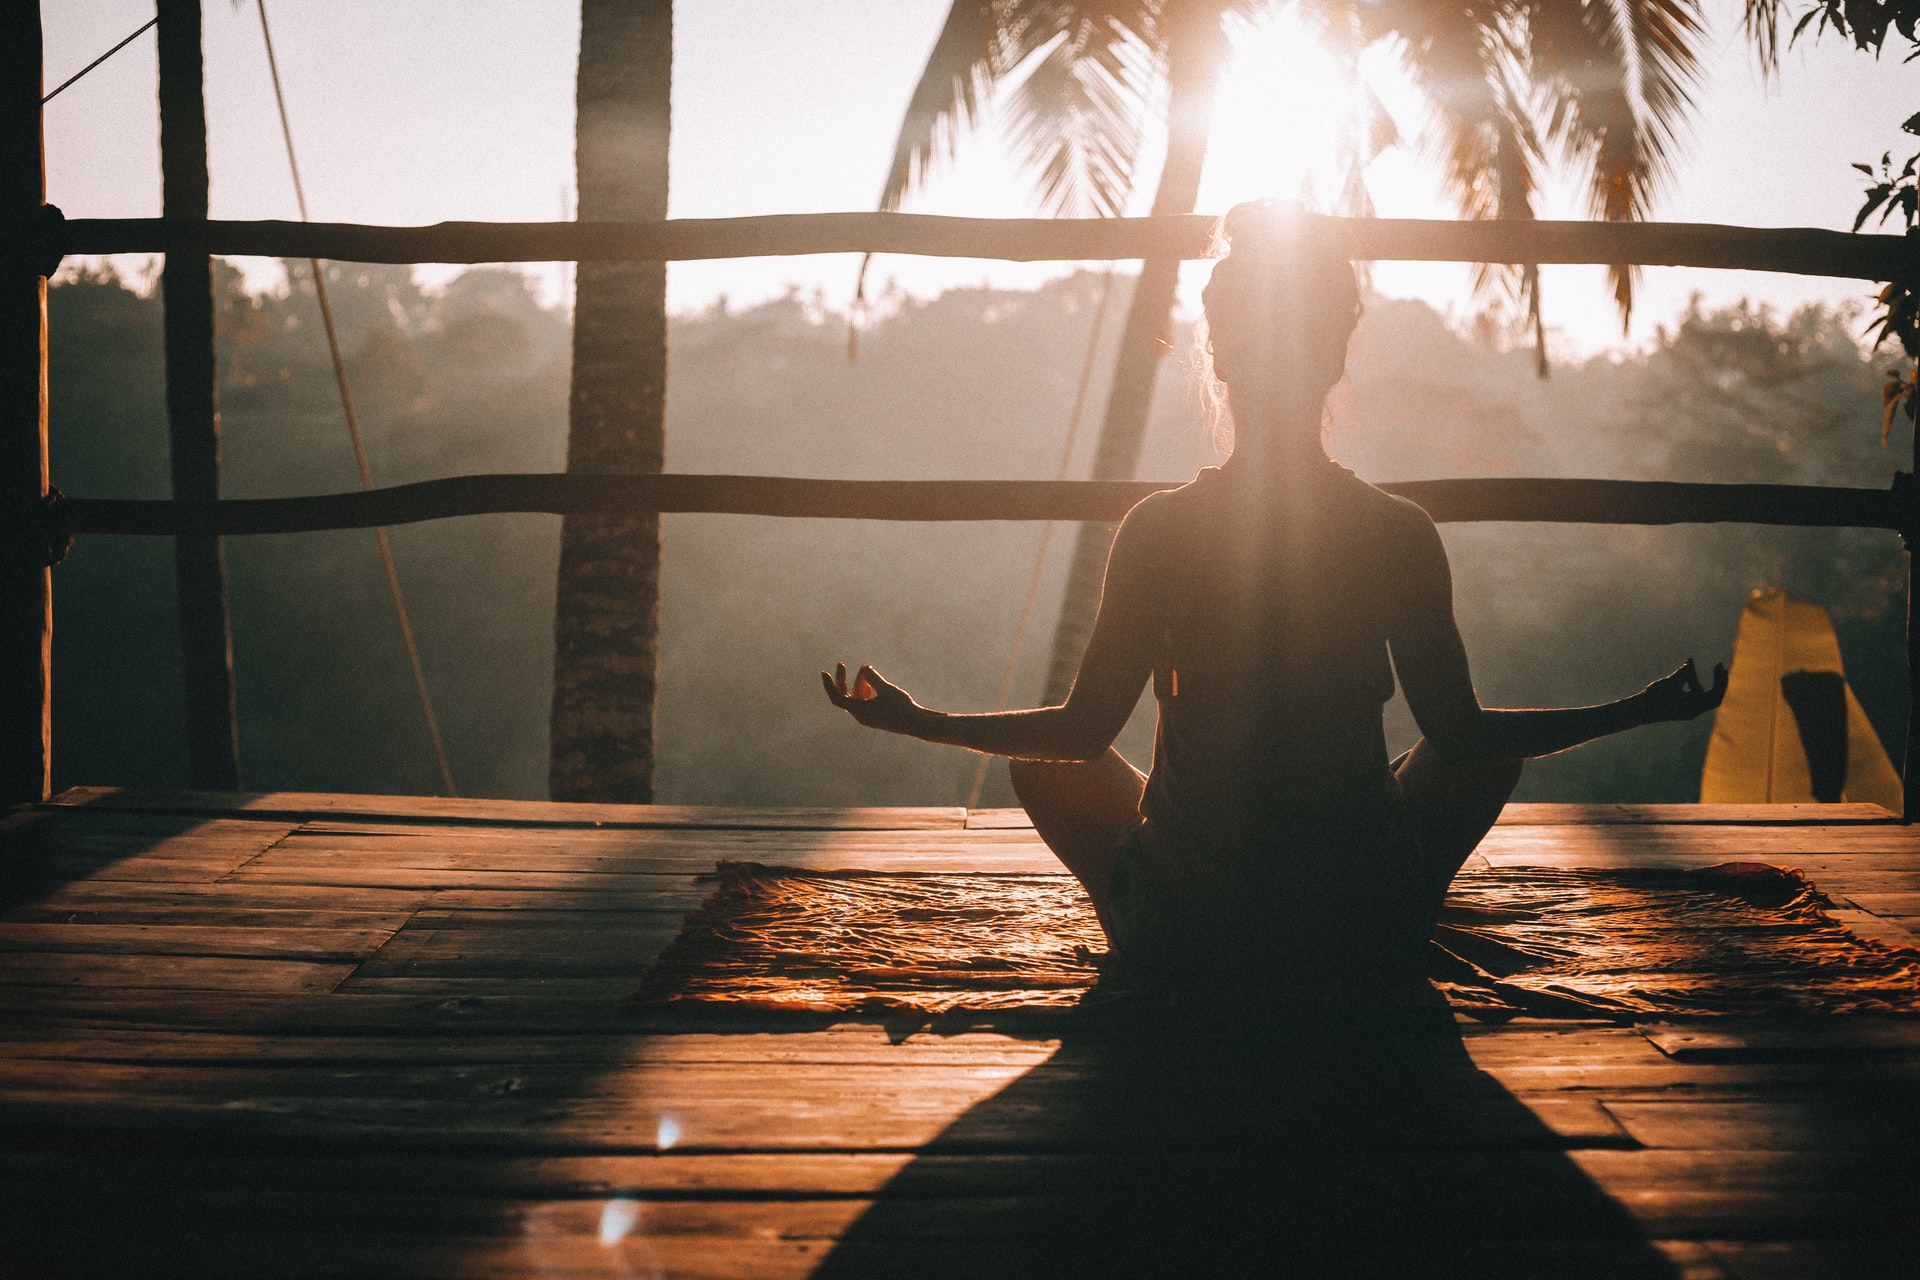
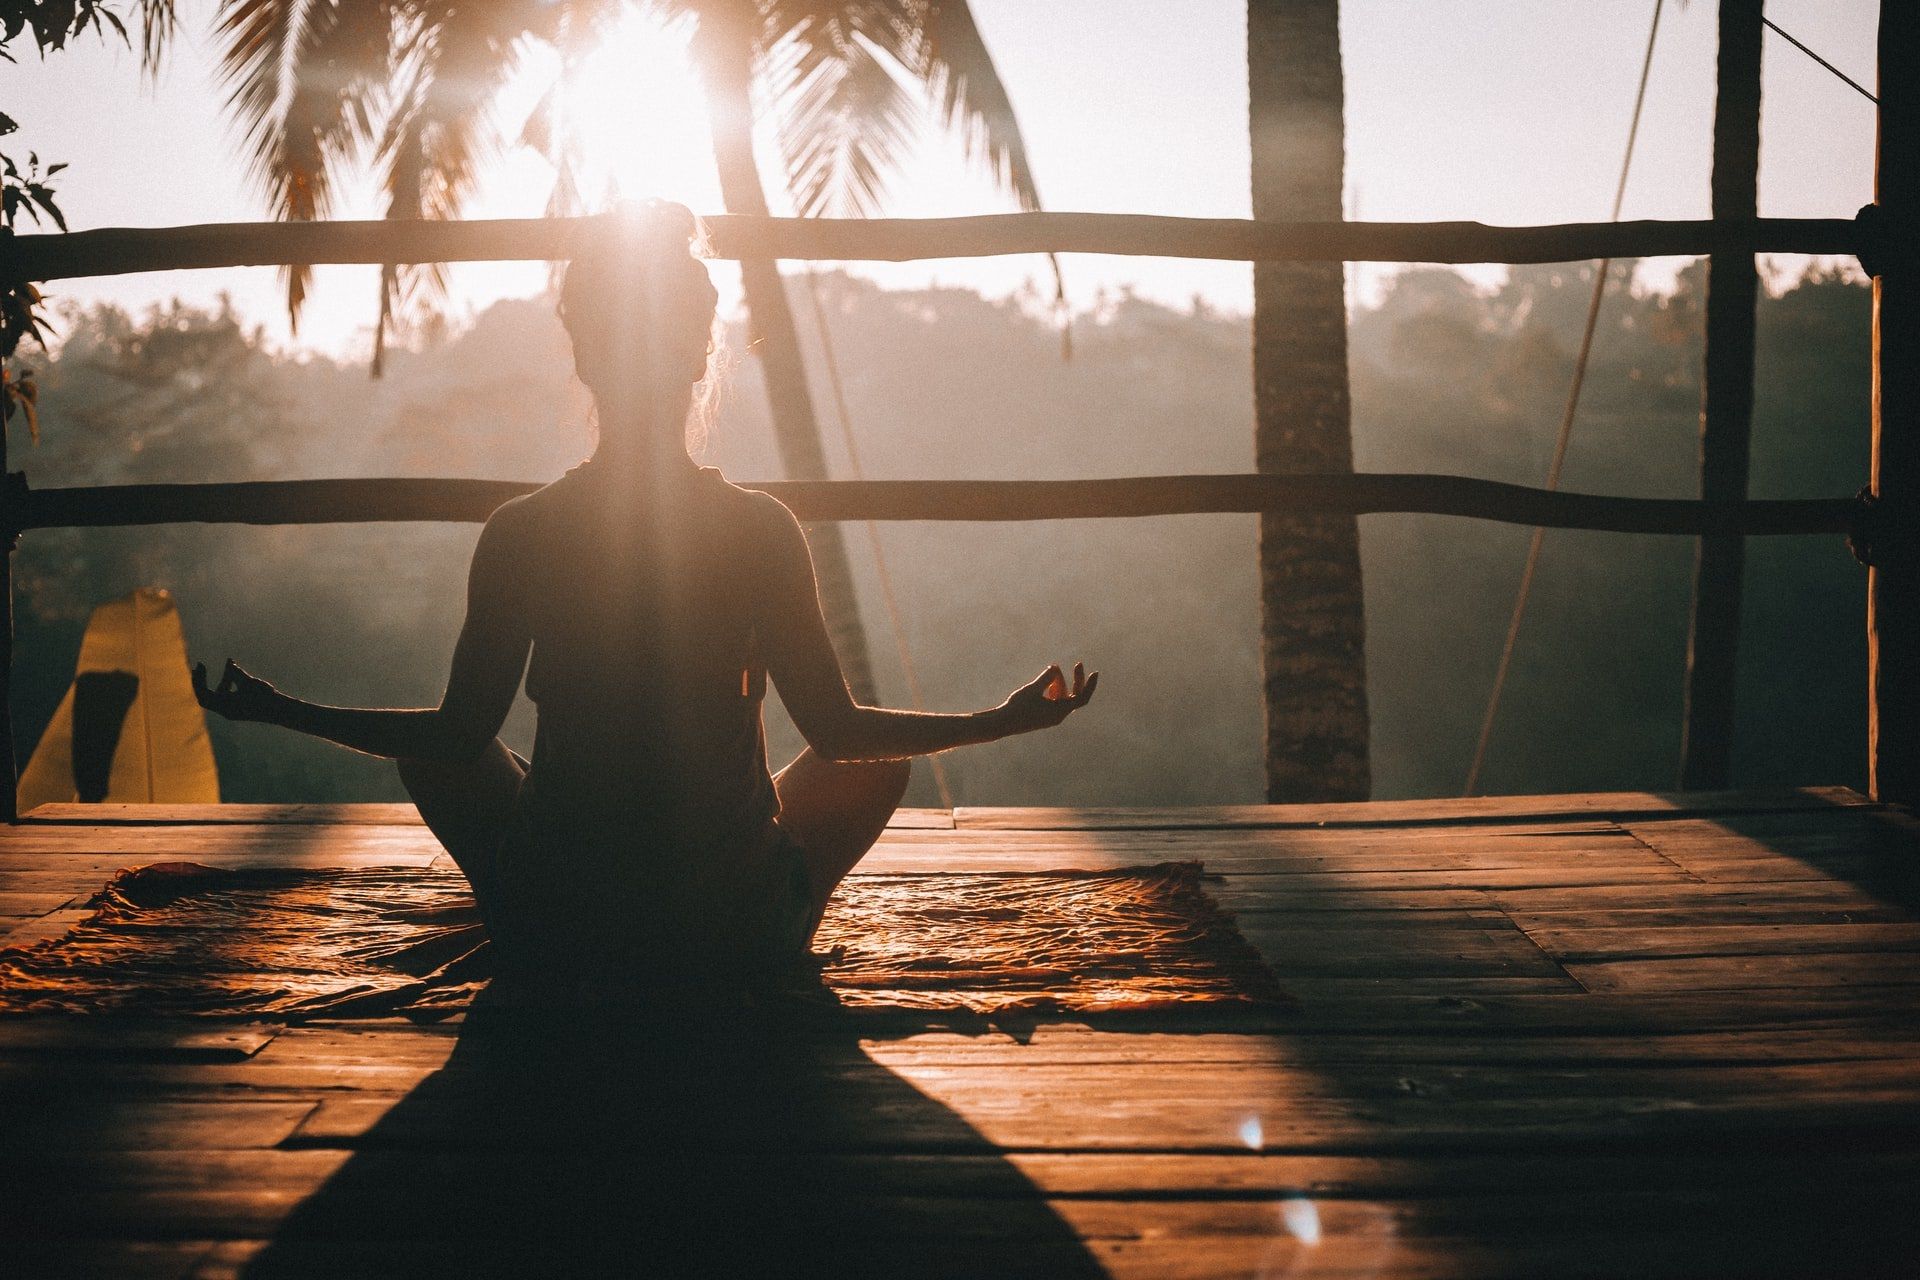
update photos

diff --git a/src/css/style.css b/src/css/style.css
@@ -238,7 +238,7 @@ body {
     .card__picture--1 {
       background-image: linear-gradient(to right bottom, #d2b0f0, #7E6B8F), url(/public/img/food-6-med.jpg); }
     .card__picture--2 {
-      background-image: linear-gradient(to right bottom, #B1F8F2, #0c4f5c), url(/public/img/yoga-3-med.jpg); }
+      background-image: linear-gradient(to right bottom, #B1F8F2, #0c4f5c), url(/public/img/yoga-4-med.jpg); }
     .card__picture--3 {
       background-image: linear-gradient(to right bottom, #d2b0f0, #7E6B8F), url(/public/img/class-16-med.jpg); }
   .card__heading {

diff --git a/src/components/helpers/models.tsx b/src/components/helpers/models.tsx
@@ -95,7 +95,7 @@ export const courses: Product[] = [
             "Weekly Q and A",
             "Group practice session"
         ],
-        images: [ '/public/img/food-3-med.jpg' ],
+        images: [ '/public/img/yoga-4-med.jpg' ],
         amount: 15000,
         currency: 'usd',
         quantity: 1

diff --git a/src/sass/components/_card.scss b/src/sass/components/_card.scss
@@ -68,7 +68,7 @@
 
         &--2 {
             background-image: linear-gradient(to right bottom, $color-primary-light, $color-primary-dark),
-            url(/public/img/yoga-3-med.jpg)
+            url(/public/img/yoga-4-med.jpg)
         }
 
         &--3 {
